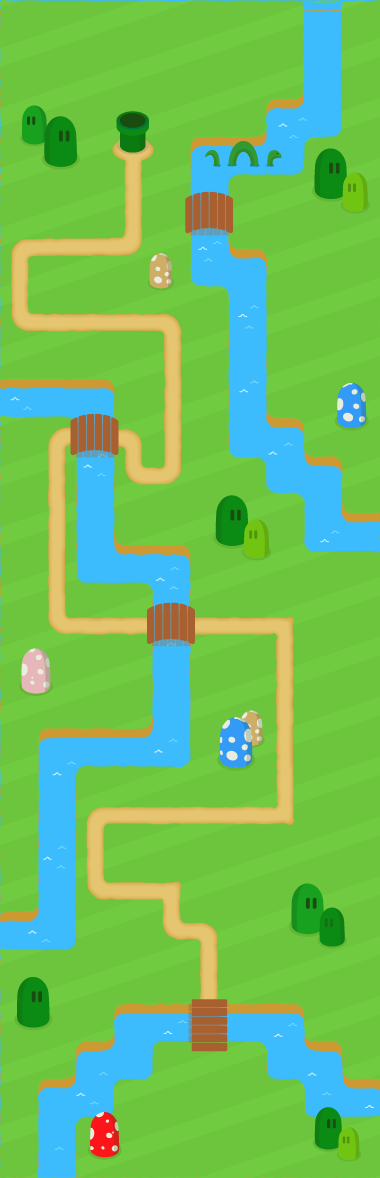
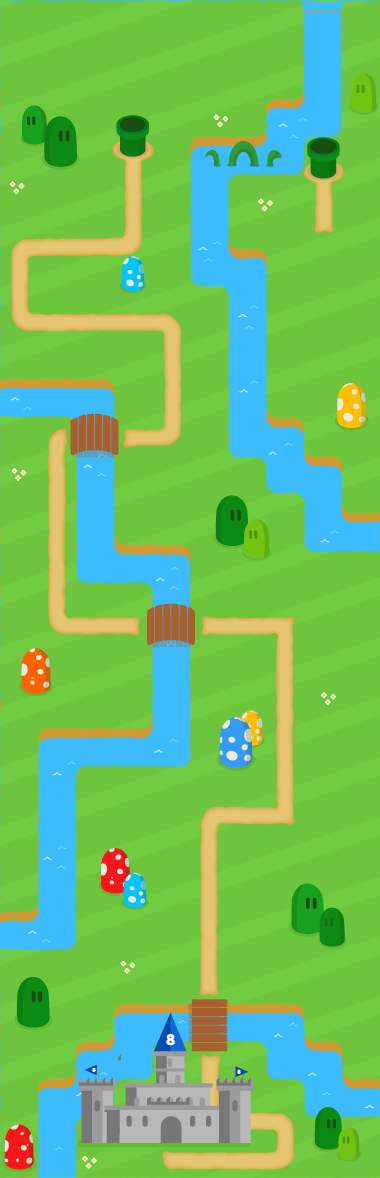
improves the map  path and timing

diff --git a/src/sh-app/sh-main.html b/src/sh-app/sh-main.html
@@ -73,11 +73,29 @@
       }
 
       .stage {
-        background-color: rgba(0, 0, 0, .5);
+        background-color: #24ce00;
+        color: white;
+        border: 2px solid #20a300;
+        box-shadow: 0 0 4px white;
         border-radius: 50%;
         position: relative;
       }
 
+       .stage--done {
+        background-color: #ffbf00;
+        border: 2px solid #dd9e00;
+       }
+
+      /*
+      stage 1 = 5%
+      stage 2 = 11
+      stage 3 = 14
+      stage 4 = 20
+      stage 5 = 29
+      stage 6 = 34
+      stage 7 = 38
+      stage 8 = 50
+      */
       .stage--one {
         grid-column: 2;
         grid-row: 7;
@@ -109,21 +127,29 @@
       }
 
       .stage--seven {
-        grid-column: 5;
+        grid-column: 6;
         grid-row: 24;
       }
 
       .stage--eight {
-        grid-column: 6 / 8;
+        grid-column: 4 / 7;
         grid-row: 29 / 31;
+        background: none;
+        border: none;
+        box-shadow: none;
+      }
+      .stage--eight .stage__action {
+
       }
 
       .stage__action {
         border: 0;
         background-color: transparent;
-        outline: 2px solid rgba(0, 0, 0, .1);
         position: absolute;
         width: calc(100% + 20px);
+        color: white;
+        font-weight: 600;
+        font-size: 1rem;
         top: -10px;
         left: -10px;
         bottom: -10px;
@@ -138,8 +164,8 @@
         width: 10vw;
         grid-column: 4;
         grid-row: 4;
-        animation: example 20s infinite alternate;
-        animation-play-state: paused;
+        animation: example 10s linear infinite alternate;
+        /* animation-play-state: paused; */
         display: flex;
         justify-content: space-between;
         align-items: center;
@@ -194,62 +220,53 @@
 
       @keyframes example {
         0 {}
-        5% {
+
+        6% {
           transform: translate3d(0, 300%, 0);
         }
-        10% {
+        12% {
           transform: translate3d(-300%, 300%, 0);
         }
-        15% {
+        16% {
           transform: translate3d(-300%, 500%, 0);
         }
-        20% {
+        24% {
           transform: translate3d(100%, 500%, 0);
         }
-        25% {
-          transform: translate3d(100%, 900%, 0);
-        }
         30% {
-          transform: translate3d(0%, 900%, 0);
+          transform: translate3d(100%, 800%, 0);
         }
-        35% {
-          transform: translate3d(0%, 800%, 0);
+        36% {
+          transform: translate3d(-200%,800%, 0);
         }
-        40% {
-          transform: translate3d(-200%, 800%, 0);
-        }
-        45% {
+        46% {
           transform: translate3d(-200%, 1300%, 0);
         }
-        50% {
+        58% {
           transform: translate3d(400%, 1300%, 0);
         }
-        55% {
+        68% {
           transform: translate3d(400%, 1800%, 0);
         }
-        60% {
-          transform: translate3d(-100%, 1800%, 0);
+        72% {
+          transform: translate3d(200%, 1800%, 0);
         }
-        65% {
-          transform: translate3d(-100%, 2000%, 0);
+        88% {
+          transform: translate3d(200%, 2600%, 0);
         }
-        70% {
-          transform: translate3d(100%, 2000%, 0);
+        92% {
+          transform: translate3d(400%, 2600%, 0);
         }
-        75% {
-          transform: translate3d(100%, 2100%, 0);
-        }
-        80% {
-          transform: translate3d(200%, 2100%, 0);
+        94% {
+          transform: translate3d(400%, 2700%, 0);
         }
         100% {
-          transform: translate3d(200%, 2600%, 0);
+          transform: translate3d(100%, 2700%, 0);
         }
       }
     </style>
 
     <sh-navigation></sh-navigation>
-
 
     <div class="map">
 
@@ -262,10 +279,10 @@
         Party! 🎉
       </button>
 
-      <div class="stage stage--one">
+      <div class="stage stage--one stage--done">
         <button class="stage__action">1</button>
       </div>
-      <div class="stage stage--two">
+      <div class="stage stage--two stage--done">
         <button class="stage__action">2</button>
       </div>
       <div class="stage stage--three">
@@ -284,7 +301,7 @@
         <button class="stage__action">7</button>
       </div>
       <div class="stage stage--eight">
-        <button class="stage__action">8</button>
+        <button class="stage__action"></button>
       </div>
 
     </div>
